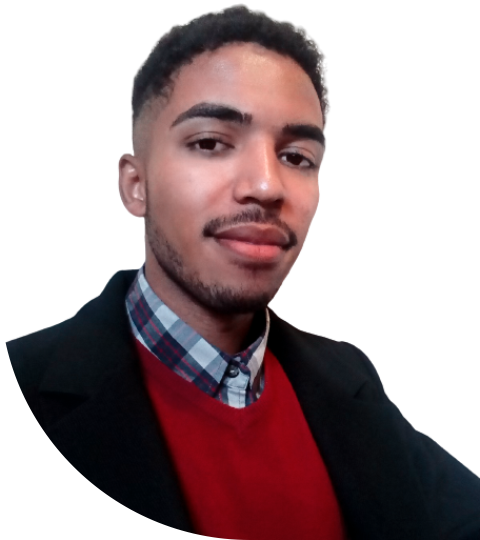
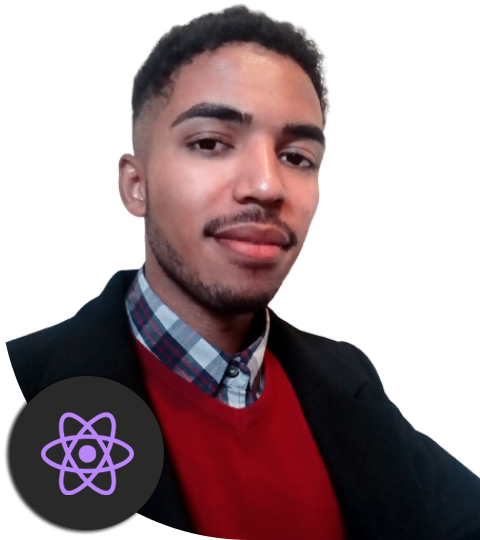
eu react

Changed region(s): [[0.0, 0.6815, 0.3438, 1.0]]

diff --git a/js/script.js b/js/script.js
@@ -8,6 +8,7 @@ function darkMode(){
         document.getElementById("github").src="img/icone_github.png";
         document.getElementById("ideia").src="img/ideia.png";
         document.getElementById("ti").src="img/ti.png";
+        document.getElementById("igor-react").src="img/eu2.png";
         document.getElementById("style").href="css/style.css"
         i++;
     }else{
@@ -17,7 +18,8 @@ function darkMode(){
         document.getElementById("github").src="img/github2.png";
         document.getElementById("ideia").src="img/ideia2.png";
         document.getElementById("ti").src="img/ti2.png";
-        document.getElementById("style").href="css/style2.css"
+        document.getElementById("igor-react").src="img/eu.png";
+        document.getElementById("style").href="css/style2.css";
         i++;
     }
 }

diff --git a/index.html b/index.html
@@ -40,7 +40,7 @@
 <!------------Primeira seção----------->
 <section class="grid1">
     <div>
-        <img class="igor-pic" src="img/eu.png" alt="Igor-Maceno">
+        <img id="igor-react" class="igor-pic" src="img/eu.png" alt="Igor-Maceno">
     </div>
     <div class="texts">
         <div>
